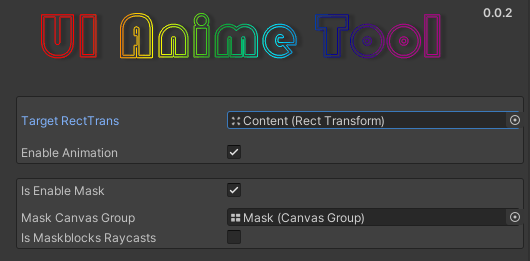
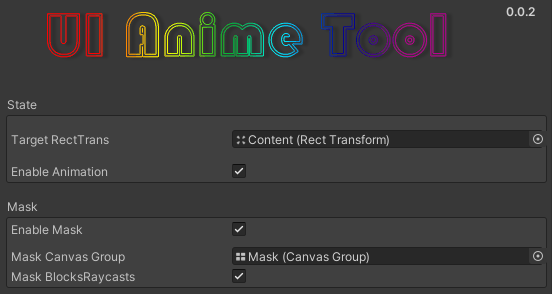
#006 fixed TO animation prop
#006
fixed TO animation prop state.
When FROM animation is not enabled, the property “isUseBackwards ” of TO animation should be invalid

diff --git a/Assets/UIPanelAnime/Editor/UIAnimeToolInspectorEditor.cs b/Assets/UIPanelAnime/Editor/UIAnimeToolInspectorEditor.cs
@@ -125,8 +125,8 @@ namespace isong.UIAnime
             Space(30);
             #endregion
 
-
-
+            
+            EditorGUILayout.LabelField("State");
             EditorGUILayout.BeginVertical(EditorStyles.helpBox);
             Space(10);
             EditorGUILayout.PropertyField(targetRectTrans, new GUIContent("Target RectTrans", "When targetRectTrans is null, use the current object as the value of targetRectTrans"));
@@ -134,12 +134,14 @@ namespace isong.UIAnime
             EditorGUILayout.PropertyField(isEnableAnime, new GUIContent("Enable Animation", "Whether to enable animation"));
             EditorGUILayout.EndVertical();
             Space(10);
+
+            EditorGUILayout.LabelField("Mask");
             EditorGUILayout.BeginVertical(EditorStyles.helpBox);
-            EditorGUILayout.PropertyField(isEnableMask); 
+            EditorGUILayout.PropertyField(isEnableMask, new GUIContent("Enable Mask", "Whether to enable animation mask"));
             Space(5);
             if (isEnableMask.boolValue) { 
                 EditorGUILayout.PropertyField(maskCanvasGroup);
-                EditorGUILayout.PropertyField(isMaskblocksRaycasts);
+                EditorGUILayout.PropertyField(isMaskblocksRaycasts, new GUIContent("Mask BlocksRaycasts", "Whether to enable animation mask's BlocksRaycasts"));
             }
             EditorGUILayout.EndVertical();
                 
@@ -247,14 +249,14 @@ namespace isong.UIAnime
 
             //draw enter property
             EditorGUILayout.BeginVertical(EditorStyles.helpBox);
-            DrawUIAnimeAttribute(enterAnimeAttribute, true);
+            DrawUIAnimeAttribute(enterAnimeAttribute, exitAnimeAttribute, true);
             EditorGUILayout.EndVertical();
 
             Space(5f);
 
             //draw exit property
             EditorGUILayout.BeginVertical(EditorStyles.helpBox);
-            DrawUIAnimeAttribute(exitAnimeAttribute, false);
+            DrawUIAnimeAttribute(enterAnimeAttribute, exitAnimeAttribute, false);
             EditorGUILayout.EndVertical();
 
             EditorGUI.EndDisabledGroup();
@@ -324,17 +326,19 @@ namespace isong.UIAnime
         /// Draw ui  anime attribute
         /// </summary>
         /// <param name="animeProperty"></param>
-        /// <param name="isFrom"></param>
+        /// <param name="isFromProp"></param>
         /// <param name="isVectorVal"></param>
-        private void DrawUIAnimeAttribute(SerializedProperty animeProperty, bool isFrom)
+        private void DrawUIAnimeAttribute(SerializedProperty enterAnimeProperty, SerializedProperty exitAnimeProperty, bool isFromProp)
         {
+
+            var animeProperty = isFromProp? enterAnimeProperty : exitAnimeProperty;
             if (animeProperty == null) return;
 
 
             Space(5);
             var isUseAnime = animeProperty.FindPropertyRelative("isUseAnime");
             var useAnimeDisplayName = "";
-            if (isFrom) 
+            if (isFromProp) 
                 useAnimeDisplayName  = "From"; 
             else 
                 useAnimeDisplayName = "To";
@@ -343,11 +347,17 @@ namespace isong.UIAnime
             {
                 var isShow = true;
                 Space(5);
-                if (!isFrom)
-                {
-                    var isUseBackwards = animeProperty.FindPropertyRelative("isUseBackwards");
-                    EditorGUILayout.PropertyField(isUseBackwards, new GUIContent("Use Backward"));
-                    isShow = !isUseBackwards.boolValue;
+                if (!isFromProp)
+                { 
+                    if (!enterAnimeProperty.FindPropertyRelative("isUseAnime").boolValue)
+                    {
+                        isShow = true;
+                    }
+                    else {
+                        var isUseBackwards = animeProperty.FindPropertyRelative("isUseBackwards");
+                        EditorGUILayout.PropertyField(isUseBackwards, new GUIContent("Use Backward"));
+                        isShow = !isUseBackwards.boolValue;
+                    }
                 }
 
                 if (isShow)

diff --git a/Assets/UIPanelAnime/Scripts/UIAnimeTool.cs b/Assets/UIPanelAnime/Scripts/UIAnimeTool.cs
@@ -373,7 +373,7 @@ namespace isong.UIAnime
             if (isEnableAnime && maskStateVal.isEnableAnime && animeAttribute.isUseAnime)
             {
 
-                if (!isEnter && animeAttribute.isUseBackwards)
+                if (!isEnter && maskFromAnimeAttribute.isUseAnime &&animeAttribute.isUseBackwards)
                     animeAttribute = maskFromAnimeAttribute;
 
                 //get duration
@@ -473,7 +473,7 @@ namespace isong.UIAnime
             if (isAnime && animeAttribute.isUseAnime)
             {
                 //if is exit and ,and  use fromVal
-                if (!isEnter && animeAttribute.isUseBackwards)
+                if (!isEnter && animeAttributeTemp.isUseAnime && animeAttribute.isUseBackwards)
                     animeAttribute = animeAttributeTemp;
 
                 //get duration
@@ -551,7 +551,7 @@ namespace isong.UIAnime
             if (isEnableAnime && alphaStateVal.isEnableAnime && animeAttribute.isUseAnime)
             {
 
-                if (!isEnter && animeAttribute.isUseBackwards)
+                if (!isEnter && alphaFromAnimeAttribute.isUseAnime && animeAttribute.isUseBackwards)
                     animeAttribute = alphaFromAnimeAttribute;
 
                 //get duration
